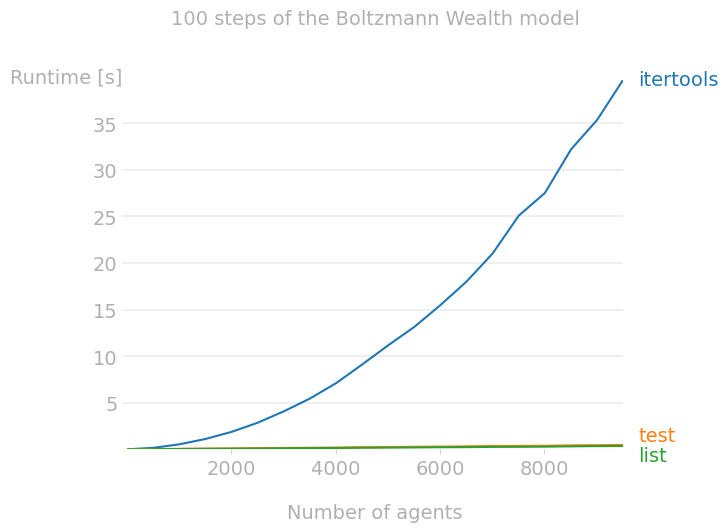
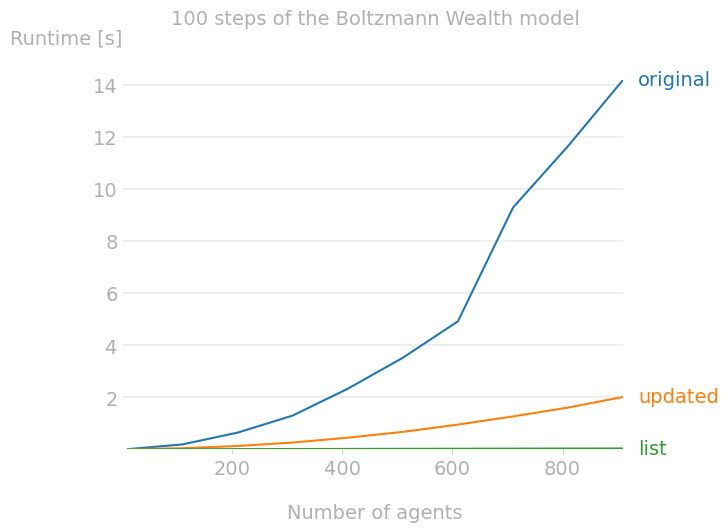
ongoing changes

diff --git a/mesa/model.py b/mesa/model.py
@@ -9,6 +9,7 @@ Core Objects: Model
 from __future__ import annotations
 
 import itertools
+import functools
 import random
 from collections import defaultdict
 
@@ -79,10 +80,14 @@ class Model:
 
     def _setup_agent_registration(self):
         self._agents_by_type: defaultdict[type, dict] = defaultdict(dict)
-        self.agents_by_type: dict[type, AgentSet] = {}
+
+        def hack():
+            return AgentSet([], self)
+
+        self.agents_by_type: defaultdict[type, AgentSet] = defaultdict(hack)
         self._all_agents = set()
-        self.all_agents = None
-        self._agent_added_flag = True
+        self.all_agents = AgentSet([], self)
+
 
     @property
     def agents(self) -> AgentSet:
@@ -91,8 +96,6 @@ class Model:
         if hasattr(self, "_agents"):
             return self._agents
         else:
-            if self._agent_added_flag:
-                self.all_agents = AgentSet(itertools.chain.from_iterable(self.agents_by_type.values(), self))
             return self.all_agents
 
     @agents.setter
@@ -112,14 +115,11 @@ class Model:
 
     def get_agents_of_type(self, agenttype: type[Agent]) -> AgentSet:
         """Retrieves an AgentSet containing all agents of the specified type."""
-        if self._agent_added_flag:
-            self.agents_by_type = {k:AgentSet(v.keys(), self) for k,v in self._agents_by_type.items()}
-
         return self.agents_by_type[agenttype]
 
 
     def register_agent(self, agent):
-        if not hasattr(self, "_agent_added_flag"):
+        if not hasattr(self, "_all_agents"):
             self._setup_agent_registration()
 
             warnings.warn(
@@ -130,7 +130,9 @@ class Model:
 
         self._agents_by_type[type(agent)][agent] = None
         self.agentset_experimental_warning_given = False
-        self._agent_added_flag = True
+
+        self.agents_by_type[type(agent)].add(agent)
+        self.all_agents.add(agent)
 
 
     def run_model(self) -> None:

diff --git a/perf.py b/perf.py
@@ -23,7 +23,7 @@ class MoneyAgent(mesa.Agent):
     def step(self):
         # Verify agent has some wealth
         if self.wealth > 0:
-            other_agent = self.random.choice(list(itertools.chain.from_iterable(self.model.agents_by_type.values())))
+            other_agent = self.random.choice(self.model.schedule.agents)
             if other_agent is not None:
                 other_agent.wealth += 1
                 self.wealth -= 1
@@ -74,7 +74,7 @@ class MoneyTestAgent(mesa.Agent):
     def step(self):
         # Verify agent has some wealth
         if self.wealth > 0:
-            other_agent = self.random.choice(self.model.my_agents)
+            other_agent = self.random.choice(self.model.agents)
             if other_agent is not None:
                 other_agent.wealth += 1
                 self.wealth -= 1
@@ -158,8 +158,8 @@ def main():
     out = perfplot.bench(
         setup=lambda n: n,
         kernels=[mesa_original_implementation, mesa_test_implementation, mesa_list_implementation],
-        labels=["itertools", "test", "list"],
-        n_range=[k for k in range(10, 1000, 500)],
+        labels=["original", "updated", "list"],
+        n_range=[k for k in range(10, 1000, 100)],
         xlabel="Number of agents",
         equality_check=None,
         title="100 steps of the Boltzmann Wealth model",
